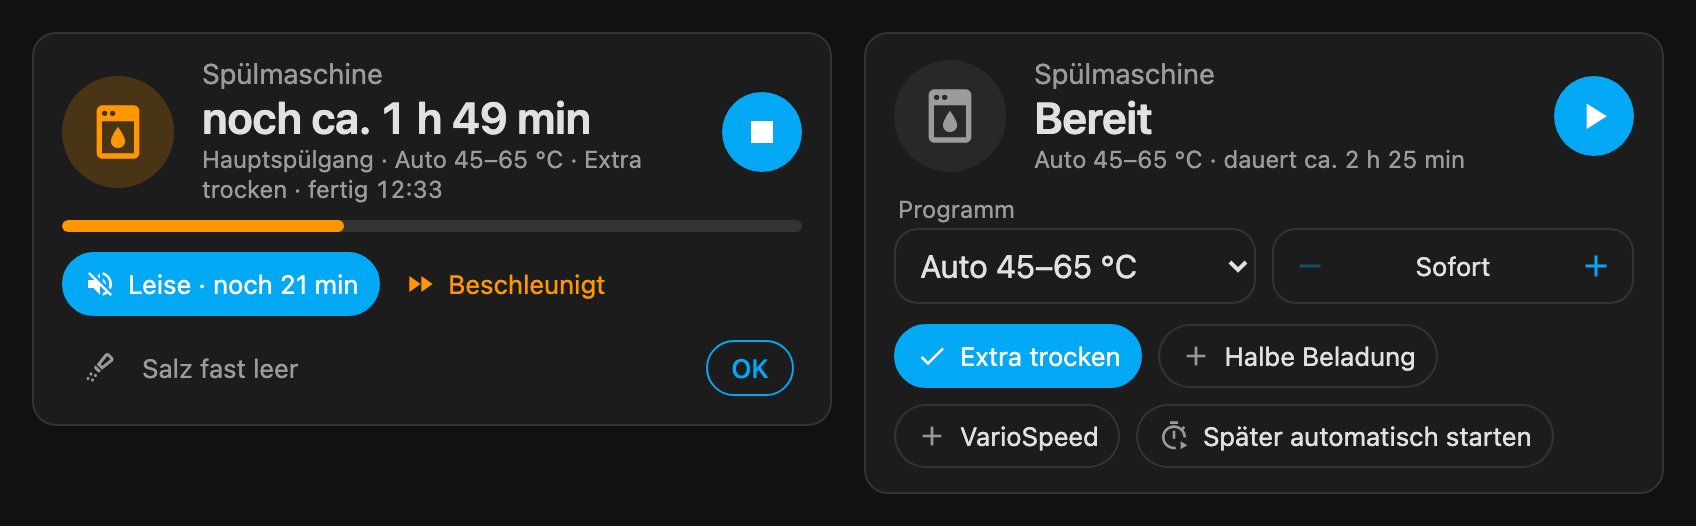
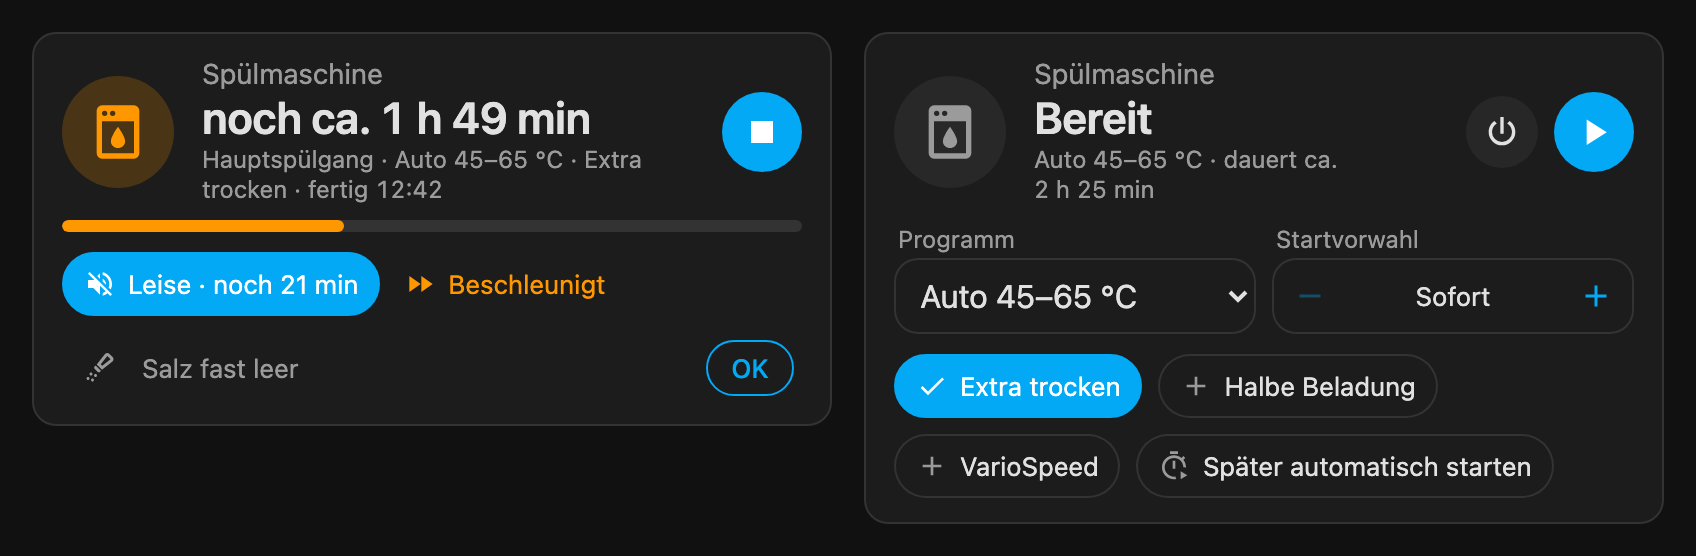
Switch-off button, delayed-start picker, program shown while off, starter_icon, durations kept on one line; version 0.1.2

diff --git a/hcpy-dishwasher-card.js b/hcpy-dishwasher-card.js
@@ -7,7 +7,7 @@
  * only from the Home Assistant theme.
  */
 
-const CARD_VERSION = "0.1.1";
+const CARD_VERSION = "0.1.2";
 const MODES = ["full", "row"];
 const PARTS = ["options", "hints", "door"];
 
@@ -128,9 +128,11 @@ const TEXT = {
     abort: "Cancel program",
     start: "Start program",
     power_on: "Switch on",
+    power_off: "Switch off",
     close_door: "Close the door to start",
     allow_remote: "Allow remote start on the dishwasher",
     program: "Program",
+    delay_label: "Delayed start",
     delay_now: "Right away",
     delay_in: "In {time} · at {clock}",
     delay_less: "Start earlier",
@@ -164,6 +166,7 @@ const TEXT = {
     ed_device_id: "Dishwasher (empty = find it)",
     ed_starter_entity: "Extra switch next to the options, e.g. for your own start automation (optional)",
     ed_starter_name: "Name of that switch (empty = its entity name)",
+    ed_starter_icon: "Icon of that switch (empty = its entity icon)",
     ed_hide: "Hide parts",
     ed_hide_options: "Options",
     ed_hide_hints: "Hints",
@@ -220,9 +223,11 @@ const TEXT = {
     abort: "Programm abbrechen",
     start: "Programm starten",
     power_on: "Einschalten",
+    power_off: "Ausschalten",
     close_door: "Zum Starten die Tür schließen",
     allow_remote: "Fernstart an der Maschine freigeben",
     program: "Programm",
+    delay_label: "Startvorwahl",
     delay_now: "Sofort",
     delay_in: "In {time} · um {clock}",
     delay_less: "Früher starten",
@@ -256,6 +261,7 @@ const TEXT = {
     ed_device_id: "Spülmaschine (leer = selbst suchen)",
     ed_starter_entity: "Zusätzlicher Schalter neben den Optionen, z. B. für eine eigene Start-Automation (optional)",
     ed_starter_name: "Name dieses Schalters (leer = Name der Entität)",
+    ed_starter_icon: "Symbol dieses Schalters (leer = Symbol der Entität)",
     ed_hide: "Teile ausblenden",
     ed_hide_options: "Optionen",
     ed_hide_hints: "Hinweise",
@@ -304,6 +310,8 @@ class DishwasherCard extends HTMLElement {
       if (act === "abort") this._abort();
       if (act === "start") this._start();
       if (act === "power") this._press("power", entity, "switch", "turn_on", { entity_id: entity });
+      if (act === "power-off")
+        this._press("power-off", entity, "switch", "turn_off", { entity_id: entity }, { wait: SWITCH_WAIT_MS, ignored: "not_taken" });
       if (act === "delay") this._stepDelay(Number(el.dataset.dir));
       // the machine answers a switch within seconds; options a program does not allow it ignores silently
       if (act === "toggle")
@@ -327,6 +335,10 @@ class DishwasherCard extends HTMLElement {
     }
     this.shadowRoot.addEventListener("change", (e) => {
       if (e.target.matches?.("select[data-act='program']") && e.target.value) this._chooseProgram(e.target.value);
+      if (e.target.matches?.("select[data-act='delay-pick']")) {
+        this._delayMin = Number(e.target.value) || 0;
+        this._refresh();
+      }
     });
     // keep the card still while the program drop-down is open
     this.shadowRoot.addEventListener("focusin", (e) => {
@@ -359,6 +371,7 @@ class DishwasherCard extends HTMLElement {
         { name: "device_id", selector: { device: { filter: { integration: "mqtt" } } } },
         { name: "starter_entity", selector: { entity: { domain: ["input_boolean", "switch"] } } },
         { name: "starter_name", selector: { text: {} } },
+        { name: "starter_icon", selector: { icon: {} } },
         {
           name: "start_options",
           selector: {
@@ -548,7 +561,8 @@ class DishwasherCard extends HTMLElement {
     const min = Math.max(1, Math.round(sec / 60));
     const h = Math.floor(min / 60);
     const m = min % 60;
-    return h ? (m ? `${h} h ${m} min` : `${h} h`) : `${m} min`;
+    // no-break spaces: "2 h 25 min" never splits over two lines
+    return (h ? (m ? `${h} h ${m} min` : `${h} h`) : `${m} min`).replace(/ /g, "\u00a0");
   }
 
   _clock(sec) {
@@ -584,7 +598,7 @@ class DishwasherCard extends HTMLElement {
     } else if (state === "Ready" && remaining) {
       // when ready, the dishwasher already reports how long the preselected program takes
       detail = [program, this._t("takes", { time: this._dur(remaining) })];
-    } else if (!offline && !off) {
+    } else if (!offline) {
       detail = [program];
     }
     // during a program the chosen options are just part of the description
@@ -824,6 +838,13 @@ class DishwasherCard extends HTMLElement {
       ${busy ? this._spinner() : `<ha-icon icon="mdi:${ask ? "help" : "stop"}"></ha-icon>`}</button>`;
   }
 
+  // Full card only (the row keeps one button): switch off while on and no program runs.
+  _powerOffBtn(view) {
+    const e = this._dev.e;
+    if (!e.power || view.offline || view.off || RUNNING.includes(view.state)) return "";
+    return this._btn("power-off", "mdi:power", "power_off", "quiet", e.power);
+  }
+
   _btn(act, icon, label, cls, entity = "") {
     const busy = !!this._busy[act];
     const text = this._t(label);
@@ -873,7 +894,7 @@ class DishwasherCard extends HTMLElement {
           <div class="status" ${color ? `style="color:${color}"` : ""}>${esc(view.status)}</div>
           ${view.detail.length ? `<div class="sub">${view.detail.map(esc).join(" · ")}</div>` : ""}
         </div>
-        ${this._mainBtn(view)}
+        <div class="btns">${this._powerOffBtn(view)}${this._mainBtn(view)}</div>
         ${this._bar(view.progress, view.status)}
       </div>`;
 
@@ -903,7 +924,8 @@ class DishwasherCard extends HTMLElement {
     if (starter && !view.offline && !RUNNING.includes(view.state)) {
       // a switch of the user's own (e.g. an automation that starts the dishwasher): its own name and icon
       const name = this._config.starter_name || starter.attributes?.friendly_name || starter.entity_id;
-      chips.push(this._toggleChip(starter.entity_id, name, starter.attributes?.icon || "mdi:play-circle-outline"));
+      const icon = this._config.starter_icon || starter.attributes?.icon || "mdi:play-circle-outline";
+      chips.push(this._toggleChip(starter.entity_id, name, icon));
     }
     const chipRow = chips.some(Boolean) ? `<div class="chips">${chips.join("")}</div>` : "";
 
@@ -924,6 +946,14 @@ class DishwasherCard extends HTMLElement {
     return `<ha-card><div class="dev">${head}${startHint}${setup}${chipRow}${hintBox}</div>${err}</ha-card>`;
   }
 
+  // Middle of the delayed-start stepper: a native picker (a wheel on iOS) in DELAY_STEP_MIN steps.
+  _delayPick(d) {
+    const label = (m) => (m ? this._t("delay_in", { time: this._dur(m * 60), clock: this._clock(m * 60) }) : this._t("delay_now"));
+    const options = [];
+    for (let m = 0; m <= DELAY_MAX_MIN; m += DELAY_STEP_MIN) options.push(`<option value="${m}" ${m === d ? "selected" : ""}>${esc(label(m))}</option>`);
+    return `<select class="pick" data-act="delay-pick" aria-label="${this._t("delay_label")}">${options.join("")}</select>`;
+  }
+
   // Program drop-down and delayed start, shown while the dishwasher is ready.
   _setupRow(dev) {
     const sel = this._st("selected");
@@ -937,11 +967,11 @@ class DishwasherCard extends HTMLElement {
       : "";
     const d = this._delayMin;
     const delay = dev.e.delay_set
-      ? `<div class="stepper" role="group" aria-label="${this._t("st_DelayedStart")}">
+      ? `<div class="field"><span class="field-label">${this._t("delay_label")}</span><div class="stepper" role="group" aria-label="${this._t("delay_label")}">
           <button data-act="delay" data-dir="-1" ${d <= 0 ? "disabled" : ""} aria-label="${this._t("delay_less")}"><ha-icon icon="mdi:minus"></ha-icon></button>
-          <span class="val" aria-live="polite">${d ? this._t("delay_in", { time: this._dur(d * 60), clock: this._clock(d * 60) }) : this._t("delay_now")}</span>
+          ${this._delayPick(d)}
           <button data-act="delay" data-dir="1" ${d >= DELAY_MAX_MIN ? "disabled" : ""} aria-label="${this._t("delay_more")}"><ha-icon icon="mdi:plus"></ha-icon></button>
-        </div>`
+        </div></div>`
       : "";
     return program || delay ? `<div class="setup">${program}${delay}</div>` : "";
   }
@@ -1001,6 +1031,11 @@ class DishwasherCard extends HTMLElement {
       .main ha-icon { --mdc-icon-size: 22px; }
       .main:hover { filter: brightness(1.08); }
       .main.ask { background: var(--error-color); }
+      .btns { display: flex; align-items: center; gap: 8px; }
+      /* secondary next to the main button: switch off */
+      .main.quiet { width: 36px; height: 36px; background: color-mix(in srgb, var(--primary-text-color) 6%, transparent);
+        color: var(--primary-text-color); }
+      .main.quiet ha-icon { --mdc-icon-size: 20px; }
 
       .chips { display: flex; flex-wrap: wrap; gap: 8px; margin-top: 10px; }
       .chip { all: unset; box-sizing: border-box; display: inline-flex; align-items: center; gap: 6px; min-height: 32px; padding: 0 10px;
@@ -1029,13 +1064,15 @@ class DishwasherCard extends HTMLElement {
       select, .stepper { box-sizing: border-box; min-height: 38px; border-radius: var(--ha-card-border-radius, 12px);
         border: 1px solid var(--divider-color); background: var(--card-background-color); color: var(--primary-text-color); font: inherit; }
       select { width: 100%; padding: 0 8px; cursor: pointer; text-overflow: ellipsis; }
-      .stepper { display: flex; align-items: center; justify-content: space-between; overflow: hidden; align-self: end; }
+      .stepper { display: flex; align-items: center; justify-content: space-between; overflow: hidden; }
       .stepper button { all: unset; box-sizing: border-box; width: 36px; align-self: stretch; display: flex; align-items: center;
         justify-content: center; cursor: pointer; color: var(--primary-color); }
       .stepper button:hover { background: var(--secondary-background-color); }
       .stepper button[disabled] { opacity: .35; }
       .stepper ha-icon { --mdc-icon-size: 18px; }
-      .val { font-size: 13px; text-align: center; padding: 0 4px; font-variant-numeric: tabular-nums; }
+      .stepper select.pick { appearance: none; -webkit-appearance: none; border: 0; background: transparent; min-height: 0;
+        padding: 0 2px; width: auto; flex: 1; min-width: 0; text-align: center; text-align-last: center; font-size: 13px;
+        color: var(--primary-text-color); font-variant-numeric: tabular-nums; cursor: pointer; }
       .hints { display: flex; flex-direction: column; gap: 6px; margin-top: 10px; }
       .hint { display: grid; grid-template-columns: 20px minmax(0, 1fr) auto; column-gap: 10px; align-items: center; min-height: 36px;
         padding: 0 4px 0 10px; border-radius: 10px; font-size: 14px;

diff --git a/README.md b/README.md
@@ -53,6 +53,7 @@ type: custom:hcpy-dishwasher-card
 | `device_id` | found by itself | The dishwasher to show, if hcpy has more than one (the visual editor lets you pick it) |
 | `starter_entity` | – | An extra `input_boolean` or `switch` shown next to the options while no program runs, e.g. for an automation of your own that starts the dishwasher later |
 | `starter_name` | entity name | Name shown for that switch |
+| `starter_icon` | entity icon | Icon shown for that switch |
 | `start_options` | – | Options switched on before every start and after choosing another program, if the program allows them: `extradry`, `halfload`, `variospeedplus` |
 | `hide` | – | Parts to hide: `options`, `hints`, `door` |
 | `tap_action`, `hold_action` | more-info, – | Row only: what tapping or holding the row does (standard Home Assistant actions) |

diff --git a/CHANGELOG.md b/CHANGELOG.md
@@ -1,5 +1,12 @@
 # Changelog
 
+## 0.1.2
+- Switch-off button next to the start button while no program runs
+- Delayed start: minus and plus with a picker in the middle
+- The chosen program also shows while the dishwasher is off
+- `starter_icon`: own icon for the extra switch
+- Durations no longer break over two lines; the delayed start has a label like the program drop-down
+
 ## 0.1.1
 - Start a program from the card: program drop-down, delayed start and a start button while the dishwasher is ready
 - Switch-on button while the dishwasher is off; a hint when the door is open or remote start is not allowed
